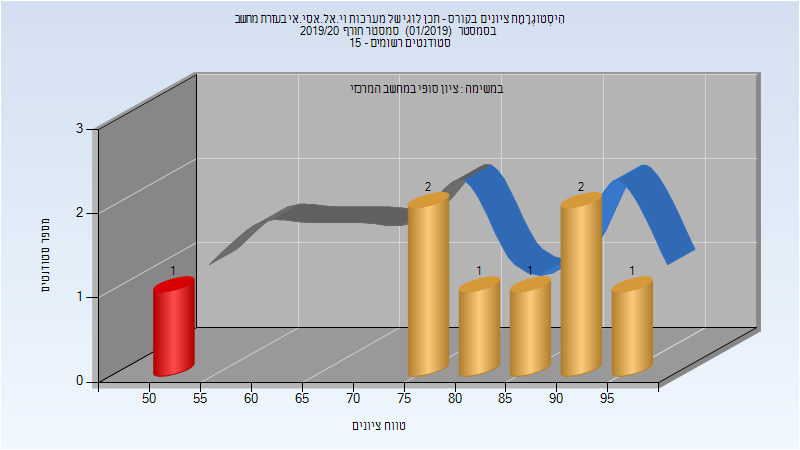
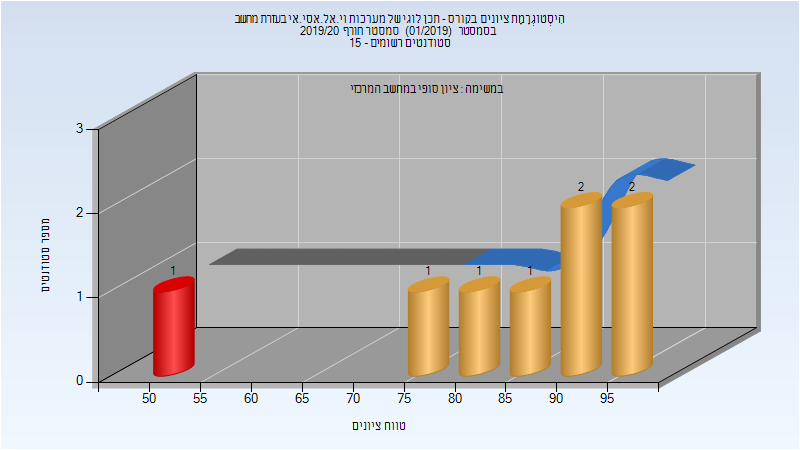
Deploy michael-maltsev/technion-histograms to github.com/michael-maltsev/technion-histograms.git:gh-pages

diff --git a/046880/index.html b/046880/index.html
@@ -93,6 +93,24 @@
 </tbody>
 </table>
 <h2>חורף 2019-2020</h2>
+<table>
+<thead>
+<tr>
+<th>איש סגל</th>
+<th>תפקיד</th>
+</tr>
+</thead>
+<tbody>
+<tr>
+<td>מויסייב קונסטנטין</td>
+<td>מרצה - אחראי מקצוע</td>
+</tr>
+<tr>
+<td>דהאן מור מרדכי</td>
+<td>מתרגל - עם הרשאות מרצה אחראי</td>
+</tr>
+</tbody>
+</table>
 <h3>מבחן מועד א'</h3>
 <p><img src="201901/Exam_A.png" alt="201901 Exam_A" /></p>
 <table>
@@ -165,9 +183,9 @@
 <td>11/1</td>
 <td>92</td>
 <td>50</td>
-<td>500</td>
-<td>221.667</td>
-<td>92.5</td>
+<td>96</td>
+<td>84.625</td>
+<td>89.5</td>
 </tr>
 </tbody>
 </table>

diff --git a/114054/index.html b/114054/index.html
@@ -975,13 +975,13 @@
 </thead>
 <tbody>
 <tr>
-<td>300</td>
-<td>292/8</td>
+<td>301</td>
+<td>293/8</td>
 <td>97</td>
 <td>13</td>
 <td>100</td>
-<td>82.49</td>
-<td>87.5</td>
+<td>82.508</td>
+<td>88</td>
 </tr>
 </tbody>
 </table>

diff --git a/046880/README.md b/046880/README.md
@@ -25,6 +25,11 @@
 
 ## חורף 2019-2020
 
+| איש סגל | תפקיד |
+| ---- | ---- |
+| מויסייב קונסטנטין | מרצה - אחראי מקצוע |
+| דהאן מור מרדכי | מתרגל - עם הרשאות מרצה אחראי |
+
 ### מבחן מועד א'
 
 ![201901 Exam_A](201901/Exam_A.png)
@@ -47,5 +52,5 @@
 
 | סטודנטים | עברו/נכשלו | אחוז עוברים | ציון מינימלי | ציון מקסימלי | ממוצע | חציון |
 | ---- | ---- | ---- | ---- | ---- | ---- | ---- |
-| 12 | 11/1 | 92 | 50 | 500 | 221.667 | 92.5 |
+| 12 | 11/1 | 92 | 50 | 96 | 84.625 | 89.5 |
 

diff --git a/114054/README.md b/114054/README.md
@@ -308,7 +308,7 @@
 
 | סטודנטים | עברו/נכשלו | אחוז עוברים | ציון מינימלי | ציון מקסימלי | ממוצע | חציון |
 | ---- | ---- | ---- | ---- | ---- | ---- | ---- |
-| 300 | 292/8 | 97 | 13 | 100 | 82.49 | 87.5 |
+| 301 | 293/8 | 97 | 13 | 100 | 82.508 | 88 |
 
 ## קיץ 2019
 
